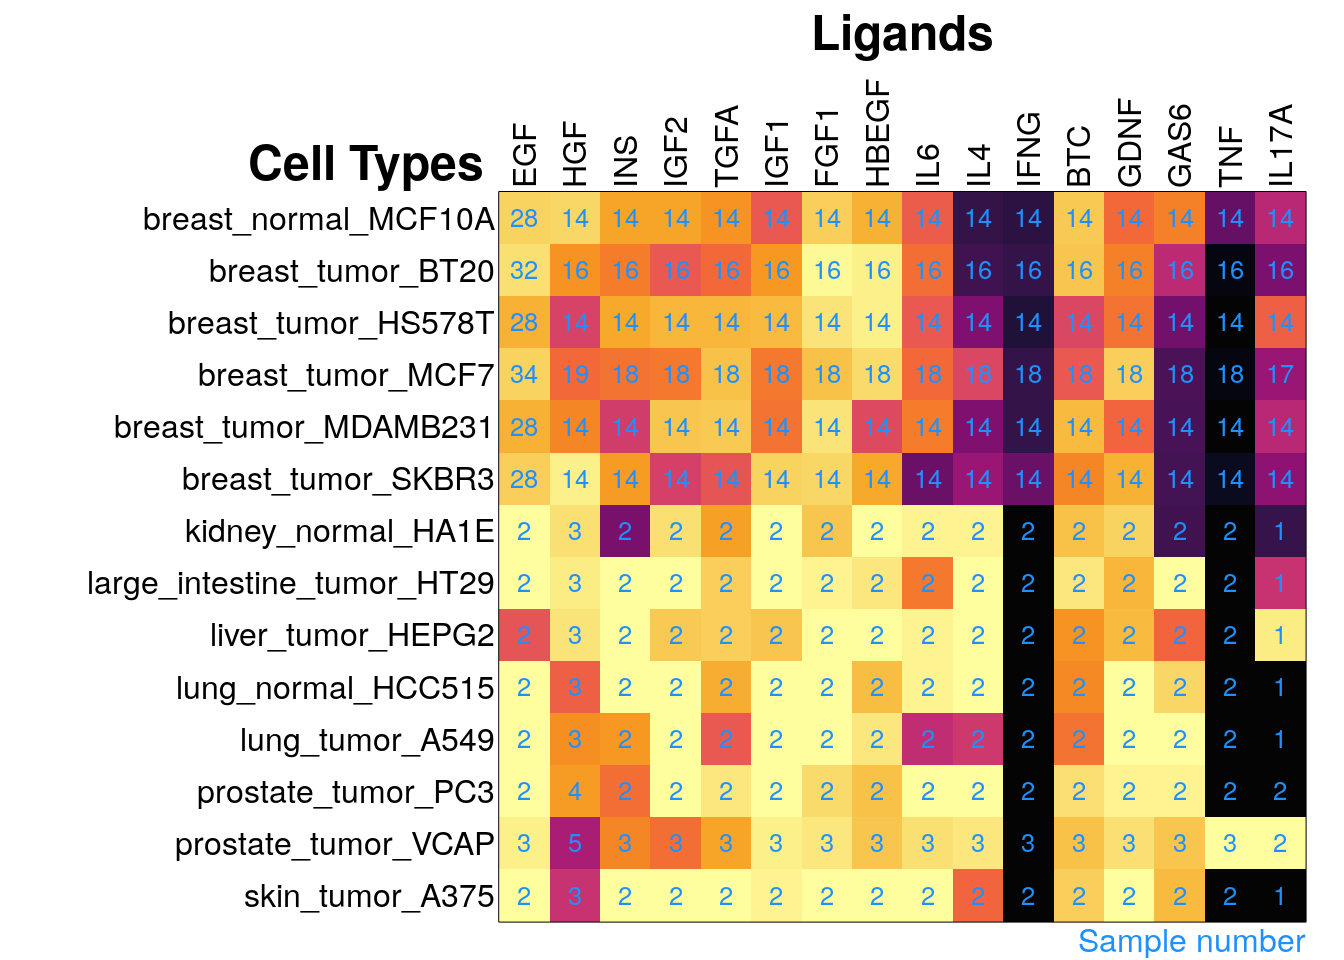
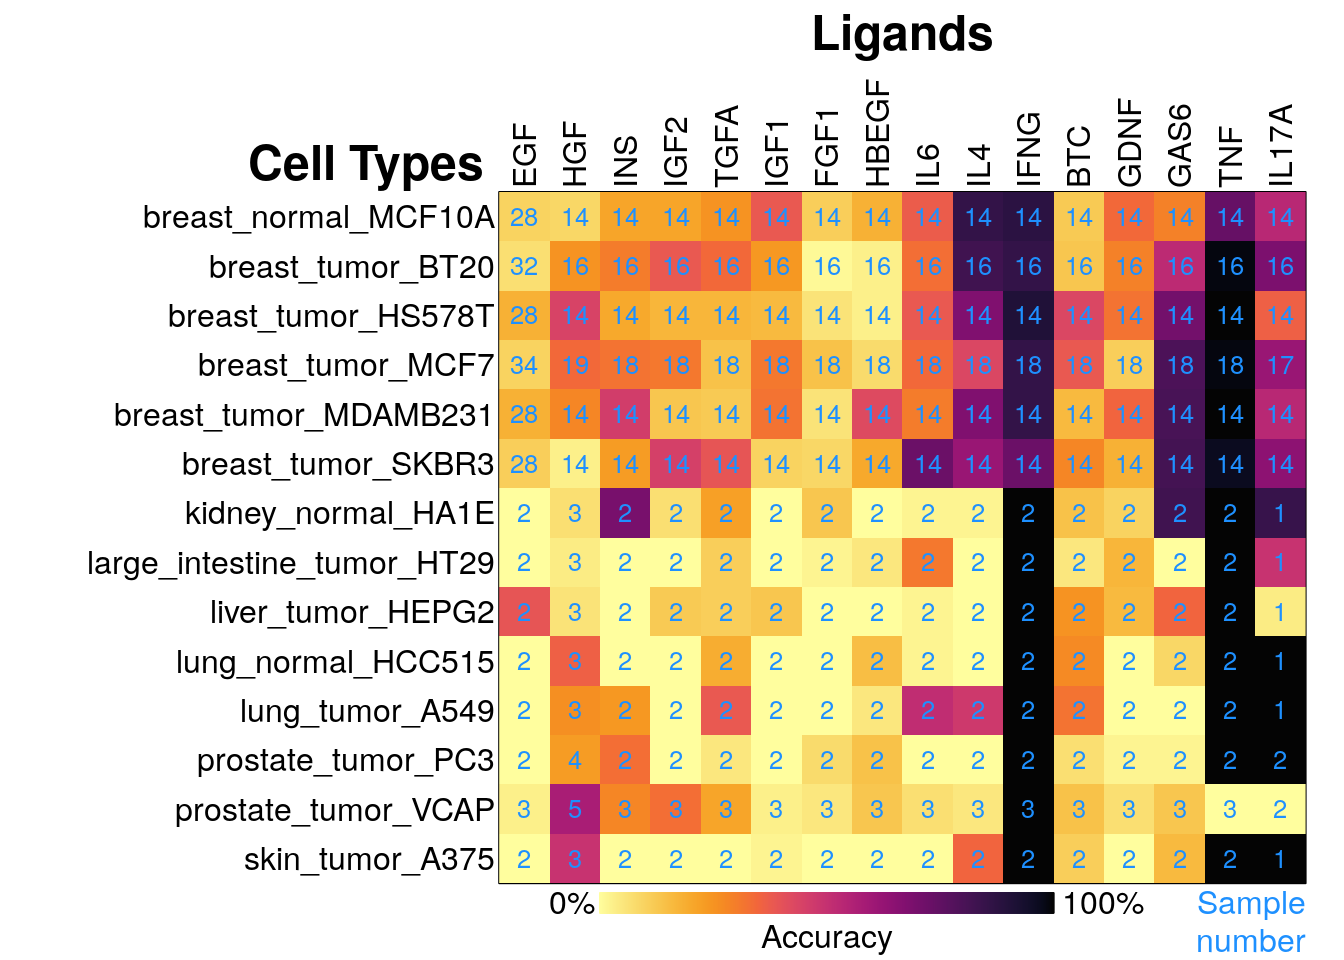
Added legend to lvl5 accuracy heatmap

Changed region(s): [[0.0625, 0.2188, 0.9688, 1.0]]

diff --git a/docs/site_libs/lightable-0.0.1/lightable.css b/docs/site_libs/lightable-0.0.1/lightable.css
@@ -1,0 +1,234 @@
+/*!
+ * lightable v0.0.1
+ * Copyright 2020 Hao Zhu
+ * Licensed under MIT (https://github.com/haozhu233/kableExtra/blob/master/LICENSE)
+ */
+
+.lightable-minimal {
+  border-collapse: separate;
+  border-spacing: 16px 1px;
+  width: 100%;
+  margin-bottom: 10px;
+}
+
+.lightable-minimal td {
+  margin-left: 5px;
+  margin-right: 5px;
+}
+
+.lightable-minimal th {
+  margin-left: 5px;
+  margin-right: 5px;
+}
+
+.lightable-minimal thead tr:last-child th {
+  border-bottom: 2px solid #00000050;
+  empty-cells: hide;
+
+}
+
+.lightable-minimal tbody tr:first-child td {
+  padding-top: 0.5em;
+}
+
+.lightable-minimal.lightable-hover tbody tr:hover {
+  background-color: #f5f5f5;
+}
+
+.lightable-minimal.lightable-striped tbody tr:nth-child(even) {
+  background-color: #f5f5f5;
+}
+
+.lightable-classic {
+  border-top: 0.16em solid #111111;
+  width: 100%;
+  margin-bottom: 10px;
+  margin: 10px 5px;
+}
+
+.lightable-classic caption {
+  color: #222222;
+}
+
+.lightable-classic td {
+  padding-left: 5px;
+  padding-right: 5px;
+  color: #222222;
+}
+
+.lightable-classic th {
+  padding-left: 5px;
+  padding-right: 5px;
+  font-weight: normal;
+  color: #222222;
+}
+
+.lightable-classic thead tr:last-child th {
+  border-bottom: 0.10em solid #111111;
+}
+
+.lightable-classic tbody tr:last-child td {
+  border-bottom: 0.14em solid #111111;
+}
+
+.lightable-classic.lightable-hover tbody tr:hover {
+  background-color: #F9EEC1;
+}
+
+.lightable-classic.lightable-striped tbody tr:nth-child(even) {
+  background-color: #f5f5f5;
+}
+
+.lightable-classic-2 {
+  border-top: 3px double #111111;
+  width: 100%;
+  margin-bottom: 10px;
+}
+
+.lightable-classic-2 caption {
+  color: #222222;
+}
+
+.lightable-classic-2 td {
+  padding-left: 5px;
+  padding-right: 5px;
+  color: #222222;
+}
+
+.lightable-classic-2 th {
+  padding-left: 5px;
+  padding-right: 5px;
+  font-weight: normal;
+  color: #222222;
+}
+
+.lightable-classic-2 tbody tr:last-child td {
+  border-bottom: 3px double #111111;
+}
+
+.lightable-classic-2 thead tr:last-child th {
+  border-bottom: 1px solid #111111;
+}
+
+.lightable-classic-2.lightable-hover tbody tr:hover {
+  background-color: #F9EEC1;
+}
+
+.lightable-classic-2.lightable-striped tbody tr:nth-child(even) {
+  background-color: #f5f5f5;
+}
+
+.lightable-material {
+  min-width: 100%;
+  white-space: nowrap;
+  table-layout: fixed;
+  font-family: Roboto, sans-serif;
+  border: 1px solid #EEE;
+  border-collapse: collapse;
+  margin-bottom: 10px;
+}
+
+.lightable-material th {
+  height: 56px;
+  padding-left: 16px;
+  padding-right: 16px;
+}
+
+.lightable-material td {
+  height: 52px;
+  padding-left: 16px;
+  padding-right: 16px;
+  border-top: 1px solid #eeeeee;
+}
+
+.lightable-material.lightable-hover tbody tr:hover {
+  background-color: #f5f5f5;
+}
+
+.lightable-material.lightable-striped tbody tr:nth-child(even) {
+  background-color: #f5f5f5;
+}
+
+.lightable-material.lightable-striped tbody td {
+  border: 0;
+}
+
+.lightable-material.lightable-striped thead tr:last-child th {
+  border-bottom: 1px solid #ddd;
+}
+
+.lightable-material-dark {
+  min-width: 100%;
+  white-space: nowrap;
+  table-layout: fixed;
+  font-family: Roboto, sans-serif;
+  border: 1px solid #FFFFFF12;
+  border-collapse: collapse;
+  margin-bottom: 10px;
+  background-color: #363640;
+}
+
+.lightable-material-dark th {
+  height: 56px;
+  padding-left: 16px;
+  padding-right: 16px;
+  color: #FFFFFF60;
+}
+
+.lightable-material-dark td {
+  height: 52px;
+  padding-left: 16px;
+  padding-right: 16px;
+  color: #FFFFFF;
+  border-top: 1px solid #FFFFFF12;
+}
+
+.lightable-material-dark.lightable-hover tbody tr:hover {
+  background-color: #FFFFFF12;
+}
+
+.lightable-material-dark.lightable-striped tbody tr:nth-child(even) {
+  background-color: #FFFFFF12;
+}
+
+.lightable-material-dark.lightable-striped tbody td {
+  border: 0;
+}
+
+.lightable-material-dark.lightable-striped thead tr:last-child th {
+  border-bottom: 1px solid #FFFFFF12;
+}
+
+.lightable-paper {
+  width: 100%;
+  margin-bottom: 10px;
+  color: #444;
+}
+
+.lightable-paper thead tr:last-child th {
+  color: #666;
+  vertical-align: bottom;
+  border-bottom: 1px solid #00000020;
+  line-height: 1.15em;
+  padding: 10px 5px;
+}
+
+.lightable-paper td {
+  vertical-align: middle;
+  border-bottom: 1px solid #00000010;
+  line-height: 1.15em;
+  padding: 7px 5px;
+}
+
+.lightable-paper.lightable-hover tbody tr:hover {
+  background-color: #F9EEC1;
+}
+
+.lightable-paper.lightable-striped tbody tr:nth-child(even) {
+  background-color: #00000008;
+}
+
+.lightable-paper.lightable-striped tbody td {
+  border: 0;
+}
+

diff --git a/docs/LigPred_lvl5.html b/docs/LigPred_lvl5.html
@@ -23,6 +23,7 @@
 <link href="site_libs/highlightjs-9.12.0/default.css" rel="stylesheet" />
 <script src="site_libs/highlightjs-9.12.0/highlight.js"></script>
 <script src="site_libs/kePrint-0.0.1/kePrint.js"></script>
+<link href="site_libs/lightable-0.0.1/lightable.css" rel="stylesheet" />
 
 <style type="text/css">code{white-space: pre;}</style>
 <style type="text/css">
